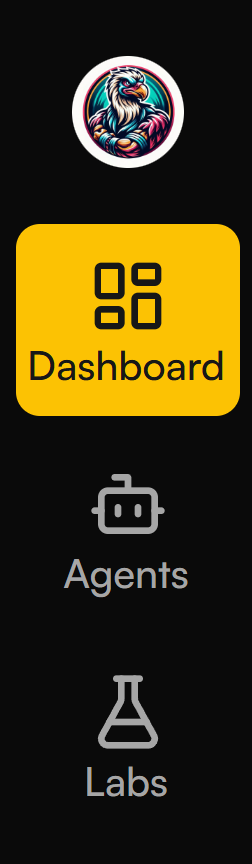
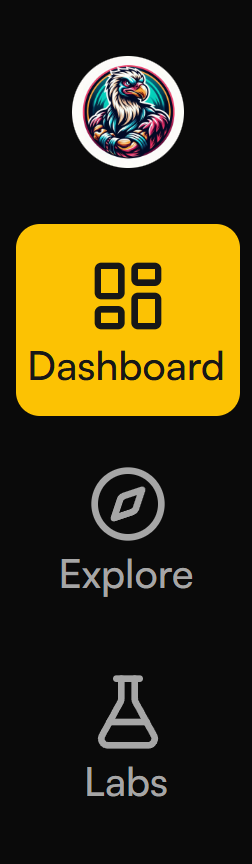
Proposals: the second rail door is Explore
The user approved renaming the second door from Agents to Explore (compass
icon). The rail PRs carry it (#3, #4, #6, #7, #25); the route still opens the
Hub at /hub, and the Explore page is the proposal in explore.html.

- side-rail.html: the lede, rail, phone and Labs sections, the rollout rows and
  the changelog say Explore. The open point about "two things called Agents" is
  marked settled: the door is Explore, the Settings row keeps its name.
- trader-nav.html: the three doors are Dashboard, Explore, Labs. The middle
  door is "learn and try": community strategies and agents with videos, then
  import into Labs. The After picture is the rail close-up with the compass.
- dashboard-home.html: the After picture is retaken on the renamed rail at
  1280 by 1400 at 2x (2560 by 2800) from the rail stack tip 095f382c, with the
  same injected mock body including the Live Agents rows.
- explore.html: the note now says the rename is applied in the rail PRs, the
  route still opens /hub, and the Explore page in the showcase is /explore.
- Pictures replaced: rail, Settings panel (rail-2-settings-menu.png from the
  new rail-3), avatar popup, avatar dialog, phone bar, Labs, trader-nav rail,
  dashboard After. The phone Account and Settings pictures are unchanged.

Kept on purpose: the Settings row called Agents, the Agents tab inside
Explore, the Live Agents card name, and the old Agents home in Before and in
the changelog history. Docs only.

Changed region(s): [[0.2222, 0.5312, 0.7778, 0.7188]]

diff --git a/docs/proposals/side-rail.html b/docs/proposals/side-rail.html
@@ -16,7 +16,7 @@
 
 <h1>A left icon rail instead of the top nav</h1>
 <p class="meta">Status: <strong>in review</strong> &middot; PRs #3, #4, #6, #7 into <code>ui-redesign</code>, plus #25 and #26 as extras &middot; Last updated: 2026-11-28 &middot; Branches reviewed on rn5 against an empty preview Condor</p>
-<p class="lede">Move Condor's navigation from the crowded top bar into a slim left icon rail (Dashboard, Agents, Labs and Settings), keep only the server, Gateway status and the mode switch in the top bar, put the user behind an initials avatar, and add a bottom tab bar on phones. The look stays the same. Only the layout changes.</p>
+<p class="lede">Move Condor's navigation from the crowded top bar into a slim left icon rail (Dashboard, Explore, Labs and Settings), keep only the server, Gateway status and the mode switch in the top bar, put the user behind an initials avatar, and add a bottom tab bar on phones. The look stays the same. Only the layout changes.</p>
 
 <h2 id="why">Why</h2>
 <p>The top bar carries seven page links and six controls in one 48 px strip, and it keeps growing as agents, strategies, routines and DEX tools arrive. On phones the links disappear and nothing replaces them. A left rail gives every surface a stable home and frees the top of the screen for the work.</p>
@@ -36,10 +36,10 @@
 <figure class="phone"><div class="phone-frame"><img src="assets/before-topnav-phone.png" alt="A phone showing the same Condor home: the top bar holds only the controls, with no page links"></div><figcaption>Phone (360 px wide screen, shown at its own size): no navigation links at all. The top bar holds only the controls.</figcaption></figure>
 
 <h2 id="after">After</h2>
-<p>A slim rail, a list panel, then the main area. Rail items: the logo, then Dashboard, Agents and Labs, and at the bottom Settings (the gear) and an initials avatar. The right side of the top bar shows only Local (the server), Gateway status and Switch Mode.</p>
+<p>A slim rail, a list panel, then the main area. Rail items: the logo, then Dashboard, Explore and Labs, and at the bottom Settings (the gear) and an initials avatar. The right side of the top bar shows only Local (the server), Gateway status and Switch Mode.</p>
 
 <h3>The rail (PR #3)</h3>
-<figure class="wide"><img src="assets/rail-1-rail.png" alt="Condor with the left icon rail: Dashboard, Agents, Labs, Settings and the user initials; the page body is blurred. The top bar shows Local, Gateway status and Switch Mode"><figcaption>Labels appear on hover and keyboard focus. Left rail shows: Dashboard, Agents, Labs, Settings, User Initial.</figcaption></figure>
+<figure class="wide"><img src="assets/rail-1-rail.png" alt="Condor with the left icon rail: Dashboard, Explore, Labs, Settings and the user initials; the page body is blurred. The top bar shows Local, Gateway status and Switch Mode"><figcaption>Labels appear on hover and keyboard focus. Left rail shows: Dashboard, Explore, Labs, Settings, User Initial.</figcaption></figure>
 <figure class="wide"><img src="assets/rail-2-settings-menu.png" alt="The rail with the Settings panel open beside it, in three groups separated by dividers: Hummingbot API, Gateway, Keys and Wallets, Servers, Updates; then Agents, LLM Endpoints, Voice and AI, Appearance, Privacy; then Report an Issue; the page body is blurred"><figcaption>The Settings gear opens a small vertical panel beside the rail, titled Settings, with 11 rows in three groups separated by dividers (the groups have no titles). Group 1: Hummingbot API, Gateway, Keys and Wallets, Servers, Updates. Group 2: Agents, LLM Endpoints, Voice &amp; AI, Appearance, Privacy. Group 3: Report an Issue, which opens the existing dialog.</figcaption></figure>
 
 <h3>The avatar menu (PR #4)</h3>
@@ -48,23 +48,23 @@
 <figure class="wide"><img src="assets/avatar-2-account-dialog.png" alt="The Your account dialog over the blurred page: a Name field with Algo Trader and a Dashboard title field with My Condor, and Cancel and Save buttons"><figcaption>Account opens the "Your account" dialog: Name (required) and Dashboard title (optional; blank keeps Condor). Save stays off until something changes.</figcaption></figure>
 
 <h3>Phones (PR #6)</h3>
-<p>Below 768 px the left rail is replaced by a bottom tab bar with four tabs: Dashboard, Agents, Labs and Account (the user's initials). The Account tab opens a sheet with the user name and role, then Account, Settings and Logout. Account opens the same dialog as on the rail. Settings shows the same list as the desktop Settings panel, behind a back arrow, in three groups: Hummingbot API, Gateway, Keys and Wallets, Servers, Updates | Agents, LLM Endpoints, Voice &amp; AI, Appearance, Privacy | Report an Issue. There is no bell. A red dot on the Account tab means the selected server is offline.</p>
+<p>Below 768 px the left rail is replaced by a bottom tab bar with four tabs: Dashboard, Explore, Labs and Account (the user's initials). The Account tab opens a sheet with the user name and role, then Account, Settings and Logout. Account opens the same dialog as on the rail. Settings shows the same list as the desktop Settings panel, behind a back arrow, in three groups: Hummingbot API, Gateway, Keys and Wallets, Servers, Updates | Agents, LLM Endpoints, Voice &amp; AI, Appearance, Privacy | Report an Issue. There is no bell. A red dot on the Account tab means the selected server is offline.</p>
 <div class="phone-row">
-<figure class="phone"><div class="phone-frame x2"><img src="assets/phone-1-tabbar.png" alt="A phone screen with the bottom tab bar: Dashboard, Agents, Labs and Account; the page body is blurred"></div><figcaption>The tab bar: Dashboard, Agents, Labs and Account. The page body is blurred.</figcaption></figure>
+<figure class="phone"><div class="phone-frame x2"><img src="assets/phone-1-tabbar.png" alt="A phone screen with the bottom tab bar: Dashboard, Explore, Labs and Account; the page body is blurred"></div><figcaption>The tab bar: Dashboard, Explore, Labs and Account. The page body is blurred.</figcaption></figure>
 <figure class="phone"><div class="phone-frame x2"><img src="assets/phone-2-account.png" alt="A phone screen with the Account sheet open: Algo Trader, ADMIN, then Account, Settings and Logout"></div><figcaption>Account opens a sheet with the name and role, then Account, Settings and Logout.</figcaption></figure>
 <figure class="phone"><div class="phone-frame x2"><img src="assets/phone-3-settings.png" alt="A phone screen with the Settings list in three groups: Hummingbot API, Gateway, Keys and Wallets, Servers, Updates; Agents, LLM Endpoints, Voice and AI, Appearance, Privacy; Report an Issue; with a back arrow"></div><figcaption>Settings: the same 11 rows in three groups as on the rail, with a back arrow. An open sheet covers the tab bar.</figcaption></figure>
 </div>
 
 <h3>Labs page (PR #7)</h3>
-<figure class="wide"><img src="assets/labs-1-page.png" alt="The Labs page: the Labs door in the rail is lit and the page body is blurred"><figcaption>New <code>/labs</code> page. It will hold four tools: Design, Backtest, Test Run and Diagnose. The page content is a placeholder for now and is blurred in the image. The old <code>/strategies</code> address redirects to <code>/labs</code>.</figcaption></figure>
+<figure class="wide"><img src="assets/labs-1-page.png" alt="The Labs page: the Labs door in the rail is lit and the page body is blurred"><figcaption>New <code>/labs</code> page. It will hold four tools: Design, Backtest, Test Run and Diagnose. The page content is a placeholder for now and is blurred in the image. The old <code>/strategies</code> address redirects to <code>/labs</code>. It is the third door, under Explore.</figcaption></figure>
 
 <h2 id="rollout">Rollout</h2>
 <table>
   <thead><tr><th>PR</th><th>Branch</th><th>Scope</th><th>Review status</th></tr></thead>
   <tbody>
-    <tr><td>#3</td><td><code>ui/side-rail</code></td><td>Left icon rail replaces the top bar (Dashboard, Agents, Labs); Settings gear at the foot opens a panel of 11 rows in three groups; top bar keeps Local, Gateway status, Switch Mode; bell removed</td><td class="s tweak">Works, tweaks 1</td></tr>
+    <tr><td>#3</td><td><code>ui/side-rail</code></td><td>Left icon rail replaces the top bar (Dashboard, Explore, Labs); Settings gear at the foot opens a panel of 11 rows in three groups; top bar keeps Local, Gateway status, Switch Mode; bell removed</td><td class="s tweak">Works, tweaks 1</td></tr>
     <tr><td>#4</td><td><code>ui/account-menu</code></td><td>Avatar menu: the user name with role, Account (edits the Name and the Dashboard title) and Logout</td><td class="s ok">Built, works</td></tr>
-    <tr><td>#6</td><td><code>ui/mobile-nav</code></td><td>Bottom tab bar on phone widths (Dashboard, Agents, Labs, Account); the Account sheet holds Account, Settings and Logout; Settings lists the same three groups as the rail; no bell</td><td class="s tweak">Works, tweaks 2 and 3</td></tr>
+    <tr><td>#6</td><td><code>ui/mobile-nav</code></td><td>Bottom tab bar on phone widths (Dashboard, Explore, Labs, Account); the Account sheet holds Account, Settings and Logout; Settings lists the same three groups as the rail; no bell</td><td class="s tweak">Works, tweaks 2 and 3</td></tr>
     <tr><td>#7</td><td><code>ui/strategies-page</code></td><td><code>/labs</code> page (placeholder body); <code>/strategies</code> redirects to it</td><td class="s todo">Placeholder only</td></tr>
     <tr><td>#25</td><td><code>ui/panel-rail-v2</code></td><td>Extra: on phones the chat workspace's right-hand panel rail becomes a drawer opened by a Panels toggle (base: <code>ui/strategies-page</code>, merge after #7)</td><td class="s ok">Built, tested; phone only</td></tr>
     <tr><td>#26</td><td><code>ui/test-no-real-ports</code></td><td>Extra: tests refuse to reach the real Condor ports 8088 and 8000 (tests only; base <code>ui-redesign</code>, independent of the rail stack)</td><td class="s ok">Built, tested</td></tr>
@@ -81,7 +81,7 @@
   <li><strong>Settings entries (#3).</strong> All 11 rows in the Settings panel open a real Settings tab, except Report an Issue, which opens the existing dialog. The Notifications and Admin tabs are not listed in the panel; they are reachable only from inside the Settings page.</li>
   <li><strong>Avatar popup (#4).</strong> The popup covers the Settings gear while it is open.</li>
   <li><strong>Account dialog (#4).</strong> It is new and edits only the Name and the Dashboard title. The hint under the title ("Optional. Leave blank to keep Condor.") differs from the onboarding step on purpose, because the title no longer shows in the top bar. The phone Account sheet has the same Account row.</li>
-  <li><strong>Two things called Agents (#3).</strong> Settings now has 11 rows, and one of them is called Agents (agent configuration). It could be confused with the Agents door in the rail. Rename one of them?</li>
+  <li><strong>Two things called Agents (#3), settled.</strong> Settings keeps a row called Agents (agent configuration). The rail door that could be confused with it is Explore now, so the collision is gone; the Settings row keeps its name.</li>
   <li><strong>Labs content (#7).</strong> The page is a placeholder. Design, Backtest, Test Run and Diagnose still have to be built.</li>
   <li><strong>Lost entry points (#3, #4).</strong> The notification bell, the display currency and Run setup again have no place in the new layout yet. Decision: fine for now, a place is to be found later.</li>
   <li><strong>Next proposal.</strong> The Dashboard page (stats) is the next proposal to build.</li>
@@ -96,13 +96,14 @@
 <table>
   <thead><tr><th>Date</th><th>Change</th><th>Reason / source</th><th>PR</th></tr></thead>
   <tbody>
-    <tr><td>2026-11-28</td><td>The Labs picture is retaken on the new rail (Dashboard, Agents, Labs lit, Settings, avatar)</td><td>User review; PR #7 at <code>0b81a167</code></td><td>#7</td></tr>
-    <tr><td>2026-11-28</td><td>Avatar and phone sections finished: the avatar popup now holds the name with role, Account and Logout, with a second picture of the "Your account" dialog; the phone bar has four tabs, the Account sheet holds Account, Settings and Logout, and Settings shows the three groups; the phone pictures are retaken (three, in order: tab bar, Account sheet, Settings list); open points added for the Account dialog and the two Agents entries</td><td>User review; PRs #4 at <code>5728adcf</code> and #6 at <code>d617fd5e</code></td><td>#4, #6</td></tr>
-    <tr><td>2026-11-28</td><td>Rail simplified: Dashboard, Agents, Labs, then Settings and the avatar; the rail pictures are retaken to match; the second rail picture and its text are removed; the Settings panel now has 11 rows in three groups (Hummingbot API, Gateway, Keys and Wallets, Servers, Updates | Agents, LLM Endpoints, Voice &amp; AI, Appearance, Privacy | Report an Issue). The avatar and phone sections were finished in the next row</td><td>User review; PR #3 at <code>b5a1bd0d</code></td><td>#3</td></tr>
+    <tr><td>2026-11-28</td><td>The second door is <strong>Explore</strong> with a compass icon, in the rail, the phone bar, every picture on this page and its text; the route still opens the Hub at <code>/hub</code>. The Settings row called Agents keeps its name, and so does the Agents tab on the Explore page. Pictures replaced: rail, Settings panel, avatar popup, avatar dialog, phone bar, Labs</td><td>User approved the rename. Rail PRs #3 at <code>6c02cdd3</code>, #4 at <code>668265c4</code>, #6 at <code>74d8cdf4</code>, #7 at <code>77bf1e5c</code>, #25 at <code>095f382c</code></td><td>#3, #4, #6, #7, #25</td></tr>
+    <tr><td>2026-11-28</td><td>The Labs picture is retaken on the new rail (Dashboard, Explore, Labs lit, Settings, avatar)</td><td>User review; PR #7 at <code>0b81a167</code></td><td>#7</td></tr>
+    <tr><td>2026-11-28</td><td>Avatar and phone sections finished: the avatar popup now holds the name with role, Account and Logout, with a second picture of the "Your account" dialog; the phone bar has four tabs, the Account sheet holds Account, Settings and Logout, and Settings shows the three groups; the phone pictures are retaken (three, in order: tab bar, Account sheet, Settings list); open points added for the Account dialog and the two entries then both called Agents</td><td>User review; PRs #4 at <code>5728adcf</code> and #6 at <code>d617fd5e</code></td><td>#4, #6</td></tr>
+    <tr><td>2026-11-28</td><td>Rail simplified: Dashboard, Explore, Labs, then Settings and the avatar; the rail pictures are retaken to match; the second rail picture and its text are removed; the Settings panel now has 11 rows in three groups (Hummingbot API, Gateway, Keys and Wallets, Servers, Updates | Agents, LLM Endpoints, Voice &amp; AI, Appearance, Privacy | Report an Issue). The avatar and phone sections were finished in the next row</td><td>User review; PR #3 at <code>b5a1bd0d</code></td><td>#3</td></tr>
     <tr><td>2026-11-27</td><td>Labs now holds four tools: Design, Backtest, Test Run and Diagnose (the route stays <code>/labs</code>); no Settings entry is removed; the lit-state quirk is fixed in #3 (while the Settings panel or the avatar popup is open, only its opener is lit, Dashboard is not); PR #25 (phone drawer for the chat panel rail) and PR #26 (tests refuse real ports) added to the rollout as extras</td><td>User answers; fix in PR #3 (<code>4ea4af86</code>)</td><td>#3, #7, #25, #26</td></tr>
-    <tr><td>2026-11-27</td><td>Rail revised again: Settings is a separate gear item with its own panel (Agents, LLM Endpoints, Voice &amp; AI, Appearance, Privacy); the phone bar has four tabs (Dashboard, Agents, Labs, Account); all desktop images retaken at 1280 by 700 at 2x and shown at one width; Dashboard page noted as the next proposal</td><td>User decisions on the open questions</td><td>#3, #6</td></tr>
+    <tr><td>2026-11-27</td><td>Rail revised again: Settings is a separate gear item with its own panel (Agents, LLM Endpoints, Voice &amp; AI, Appearance, Privacy); the phone bar has four tabs (Dashboard, Explore, Labs, Account); all desktop images retaken at 1280 by 700 at 2x and shown at one width; Dashboard page noted as the next proposal</td><td>User decisions on the open questions</td><td>#3, #6</td></tr>
     <tr><td>2026-11-27</td><td>Final images for the rail, avatar menu, phone tab bar and Labs page, all retaken at 2x in the dark theme with the page body blurred and only the navigation sharp; phones now shown inside the phone frame, one per row; Phones section rewritten for the new tab bar; open points added for the Account tab, Labs before #7 and the Dashboard</td><td>User review of the proposal; PRs #3, #4, #6 and #7 merged down in order</td><td>#3, #4, #6, #7</td></tr>
-    <tr><td>2026-11-27</td><td>Rail proposal revised after review: rail items are Dashboard, Agents and Labs; top bar right side is Local, Gateway status and Switch Mode; bell removed; avatar popup reduced to the user name with role, and Logout; the Strategies page became the Labs page; the Chat list search and filter section (PR #8) was dropped by decision. Page bodies are blurred in the new images so the navigation stands out</td><td>User review of the proposal</td><td>#3, #4, #6, #7</td></tr>
+    <tr><td>2026-11-27</td><td>Rail proposal revised after review: rail items are Dashboard, Explore and Labs; top bar right side is Local, Gateway status and Switch Mode; bell removed; avatar popup reduced to the user name with role, and Logout; the Strategies page became the Labs page; the Chat list search and filter section (PR #8) was dropped by decision. Page bodies are blurred in the new images so the navigation stands out</td><td>User review of the proposal</td><td>#3, #4, #6, #7</td></tr>
     <tr><td>2026-11-27</td><td>"Before" images retaken from the old top-nav build, one per row: the full desktop screen at 1280 px, and the phone screen inside a CSS phone frame (same treatment as the onboarding page). The old phone image showed the keys overlay, not the top bar. "After" images unchanged</td><td>User review: larger Before images so the text is readable</td><td>#13</td></tr>
     <tr><td>2026-11-26</td><td>Page rebuilt as editable HTML in <code>docs/proposals/</code>; screenshots retaken from the PR branches</td><td>Previous version was a generated page that could not be edited by every agent</td><td>docs</td></tr>
     <tr><td>2026-11-26</td><td>Review notes added: hover-only labels, panel rail on phones</td><td>Review of PRs #3, #4, #6, #7 built on rn5</td><td>&mdash;</td></tr>

diff --git a/docs/proposals/trader-nav.html b/docs/proposals/trader-nav.html
@@ -16,7 +16,7 @@
 
 <h1>Simplify Navigation to Essentials</h1>
 <p class="meta">Status: <strong>in review</strong> &middot; No PR of its own: the rail PRs #3, #4, #6 and #7 into <code>ui-redesign</code> already build it (see <a href="side-rail.html">the side-rail proposal</a>) &middot; Last updated: 2026-11-28</p>
-<p class="lede">Cut the main navigation from seven page links to three doors, each named after something a trader does: <strong>Dashboard</strong> to check, <strong>Agents</strong> to learn, <strong>Labs</strong> to build. The look stays the same. What changes is what the user sees first and what each door is for.</p>
+<p class="lede">Cut the main navigation from seven page links to three doors, each named after something a trader does: <strong>Dashboard</strong> to check, <strong>Explore</strong> to learn and try, <strong>Labs</strong> to build. The look stays the same. What changes is what the user sees first and what each door is for.</p>
 
 <h2 id="why">Why</h2>
 <p>Today's navigation items are not coherent or intuitive about what to do first. First-time users end up clicking everywhere to find out what each button is for.</p>
@@ -31,13 +31,13 @@
   <thead><tr><th>Door</th><th>The trader's job</th><th>What it holds</th><th>Today</th></tr></thead>
   <tbody>
     <tr><td><strong>Dashboard</strong></td><td>Check</td><td>Portfolio, Bots and Markets in one place. The production view: what is running and how it is doing.</td><td class="s tweak">Opens the chat home. The stats page is the next proposal.</td></tr>
-    <tr><td><strong>Agents</strong></td><td>Learn</td><td>Find and learn about community agents, like a marketplace. An agent that looks useful is imported into Labs to test, not straight into production.</td><td class="s tweak">Opens the existing Agent Hub (<code>/hub</code>). Import into Labs is not built.</td></tr>
+    <tr><td><strong>Explore</strong></td><td>Learn and try</td><td>Community strategies and agents, each with a video: what it does and whether it is worth importing. One that looks useful is imported into Labs to test, not straight into production.</td><td class="s tweak">Opens the existing Agent Hub at <code>/hub</code>; the Explore page itself is the separate <a href="explore.html">Explore proposal</a>. Import into Labs is not built.</td></tr>
     <tr><td><strong>Labs</strong></td><td>Build</td><td>Design agents, Backtest, Test Run and Diagnose. The development view: where agents are made and proven before they go live.</td><td class="s todo">Placeholder page. The four tools still have to be built.</td></tr>
   </tbody>
 </table>
 <h2 id="after">After</h2>
 <div class="rail-demo">
-  <figure><img src="assets/trader-nav-rail.png" alt="Close-up of the left rail in the dark theme: the Condor logo, then Dashboard (lit), Agents and Labs, each with its name under the icon"></figure>
+  <figure><img src="assets/trader-nav-rail.png" alt="Close-up of the left rail in the dark theme: the Condor logo, then Dashboard (lit), Explore with a compass and Labs, each with its name under the icon"></figure>
 </div>
 
 <h2 id="rollout">Rollout</h2>
@@ -45,22 +45,23 @@
 <table>
   <thead><tr><th>PR</th><th>What it gives this proposal</th><th>Status</th><th>Still missing</th></tr></thead>
   <tbody>
-    <tr><td>#3</td><td>The rail: Dashboard, Agents, Labs, Settings; the top bar reduced to Local, Gateway status and Switch Mode</td><td class="s ok">Built, tested</td><td>Dashboard still opens the chat home</td></tr>
+    <tr><td>#3</td><td>The rail: Dashboard, Explore, Labs, Settings; the top bar reduced to Local, Gateway status and Switch Mode</td><td class="s ok">Built, tested</td><td>Dashboard still opens the chat home</td></tr>
     <tr><td>#4</td><td>The account menu: name, role, Logout</td><td class="s ok">Built, tested</td><td>&mdash;</td></tr>
-    <tr><td>#6</td><td>The same doors as a bottom tab bar on phones (Dashboard, Agents, Labs, Account)</td><td class="s ok">Built, tested</td><td>&mdash;</td></tr>
-    <tr><td>#7</td><td>The Labs door and its page</td><td class="s todo">Placeholder only</td><td>Design, Backtest, Test Run, Diagnose; import from Agents</td></tr>
+    <tr><td>#6</td><td>The same doors as a bottom tab bar on phones (Dashboard, Explore, Labs, Account)</td><td class="s ok">Built, tested</td><td>&mdash;</td></tr>
+    <tr><td>#7</td><td>The Labs door and its page</td><td class="s todo">Placeholder only</td><td>Design, Backtest, Test Run, Diagnose; import from Explore</td></tr>
   </tbody>
 </table>
-<p>The Agents door opens the Agent Hub that already exists. Making it a real marketplace, and the import into Labs, are later work.</p>
+<p>The Explore door opens the Agent Hub that already exists, at <code>/hub</code>. The Explore page (tabs, videos, the Source filter) is a separate proposal, and the import into Labs is later work.</p>
 
 <h2 id="decision">Decision requested</h2>
-<div class="callout"><p>Approve Dashboard, Agents and Labs as the three main navigation items. No new PR is needed: it is built by the rail PRs #3, #4, #6 and #7.</p></div>
+<div class="callout"><p>Approve Dashboard, Explore and Labs as the three main navigation items. No new PR is needed: it is built by the rail PRs #3, #4, #6 and #7.</p></div>
 
 <h2 id="log">Refinement log</h2>
 <p>Newest first. Add a row for every change that comes out of review.</p>
 <table>
   <thead><tr><th>Date</th><th>Change</th><th>Reason / source</th><th>PR</th></tr></thead>
   <tbody>
+    <tr><td>2026-11-28</td><td>The middle door is <strong>Explore</strong> with a compass icon, not Agents: <strong>Dashboard to check, Explore to learn and try, Labs to build</strong>. The route still opens the Hub at <code>/hub</code>; the Explore page is a separate proposal. The rail picture is retaken with the compass; the Settings row called Agents is unchanged</td><td>User approved the rename; rail PRs #3 to #25 are pushed with it</td><td>#3, #4, #6, #7, #25</td></tr>
     <tr><td>2026-11-28</td><td>The After close-up is retaken and now ends at Labs; the text that listed a fourth rail item is removed from the picture description, the rollout and the table</td><td>User review; PR #3 at <code>b5a1bd0d</code></td><td>#13</td></tr>
     <tr><td>2026-11-27</td><td>Revised after review: the page is renamed "Simplify Navigation to Essentials"; the Why is now two short paragraphs; the page is trimmed to Why, Before, Proposal, After, Rollout and Decision; Before and After show only their images; the part of the Proposal about what moves out of the main three is removed</td><td>User review of the proposal</td><td>#13</td></tr>
     <tr><td>2026-11-27</td><td>Linked to the Dashboard proposal page (<code>dashboard-home.html</code>) from a "Next proposal" line</td><td>The Dashboard proposal was written</td><td>#13</td></tr>

diff --git a/docs/proposals/explore.html b/docs/proposals/explore.html
@@ -50,7 +50,7 @@
 <ol>
   <li><strong>Content is dummy where it is marked sample.</strong> The 14 hackathon agents are real: names, builders, venues, race scores and descriptions come from the Botcamp <a href="https://www.botcamp.xyz/hackathons/agent-builders-cup-1">Agent Builders Cup</a> page and one page per agent. Every video is a placeholder marked "to be recorded", because the Agent Hub has no clips today. The feed sources for livestream, X and Discord are still to be decided; only the three Follow links are real.</li>
   <li><strong>The layout and design are not final.</strong> They will be redesigned by Sofi.</li>
-  <li><strong>The rename is shown in the showcase only.</strong> This page and the showcase say Explore; the rail PRs (#3, #6, #25) and the other proposal pages still say Agents until the rename is approved. Renaming them is one round of work, not something to do piecemeal.</li>
+  <li><strong>The rename is applied in the rail PRs.</strong> The second door is Explore with a compass icon in #3, #4, #6, #7 and #25, and it still opens the Hub at <code>/hub</code> until this page lands. In the showcase the Explore page is at <code>/explore</code> and <code>/hub</code> redirects to it; this proposal is that page. The Settings row called Agents keeps its name, and so does the Agents tab inside Explore.</li>
 </ol>
 
 <h2 id="later">Functionality to build later (after the UI is approved)</h2>
@@ -87,6 +87,7 @@
 <table>
   <thead><tr><th>Date</th><th>Change</th><th>Reason / source</th><th>PR</th></tr></thead>
   <tbody>
+    <tr><td>2026-11-28</td><td>The note about the rail PRs is updated: the rename to Explore is applied in #3, #4, #6, #7 and #25, the route still opens <code>/hub</code>, and the Explore page in the showcase is at <code>/explore</code> with <code>/hub</code> redirecting to it; the Settings Agents row and the Agents tab keep their names. Pictures unchanged</td><td>User approved the rename and the rail PRs are pushed with it</td><td>#13</td></tr>
     <tr><td>2026-11-28</td><td>Page written. Explore renames the second door and splits into four tabs. Two mock layouts were made (top tabs, and a persistent second vertical layer) and top tabs was chosen: the second layer would take 180 to 220 px from the video cards and would need a drawer on a phone, and it only earns its place at six or more sections. Every entry is video first with one action; the Source filter carries the 14 hackathon agents. Content: 14 real agents from the Agent Builders Cup, 10 strategies verified on the Hummingbot docs, 3 real channel links, everything else sample, all videos to be recorded</td><td>User: rename the second door to Explore; keep strategies and agents as separate lists with their own definition; video first; dummy content is fine. Layout decided with the two layout mocks</td><td>#13</td></tr>
   </tbody>
 </table>

diff --git a/docs/proposals/dashboard-home.html b/docs/proposals/dashboard-home.html
@@ -59,8 +59,9 @@
 <table>
   <thead><tr><th>Date</th><th>Change</th><th>Reason / source</th><th>PR</th></tr></thead>
   <tbody>
+    <tr><td>2026-11-28</td><td>The After picture is retaken on the renamed rail (Dashboard, Explore with a compass, Labs, then Settings and the avatar); the page content is unchanged, including the Live Agents rows</td><td>The second door is Explore (user approved the rename); the picture is taken on the rail stack tip <code>095f382c</code></td><td>#13</td></tr>
     <tr><td>2026-11-28</td><td>The Live Agents cards gain two rows after Volume: <strong>Agent Started</strong> (<code>25-Nov-26 at 12:55 pm</code>) and <strong>Total Runtime</strong> (<code>3D 2H 30Mins</code>), with a different value for each card (GateForum <code>26-Nov-26 at 9:40 am</code> / <code>2D 5H 45Mins</code>; JEV <code>28-Nov-26 at 12:55 pm</code> / <code>2H 30Mins</code>); the mock's sample "now" is 28-Nov-26 at 3:25 PM, which the runtimes add up to; the picture is retaken on the current rail build at 1280 by 1400 at 2x (2560 by 2800)</td><td>User request. Sample data only: Condor does not report an agent's start time or runtime yet</td><td>#13</td></tr>
-    <tr><td>2026-11-28</td><td>The After picture is retaken on the updated left rail (Dashboard, Agents, Labs, then Settings and the avatar); the page content is the same</td><td>User review; PR #3 at <code>b5a1bd0d</code></td><td>#13</td></tr>
+    <tr><td>2026-11-28</td><td>The After picture is retaken on the updated left rail (Dashboard, Explore, Labs, then Settings and the avatar); the page content is the same</td><td>User review; PR #3 at <code>b5a1bd0d</code></td><td>#13</td></tr>
     <tr><td>2026-11-27</td><td>Revised after review: the Why is now three short paragraphs; the page is trimmed to Why, Before, After, Notes, Rollout and Decision; the Before keeps only what is missing for a trader and has no caption; the After text now explains what the page is for instead of describing the picture, and its note is shortened; the table under the picture is removed; the picture gains a "Live Agents" row of three cards (Stable Churn, GateForum, JEV) with sample data, and is retaken at 1280 by 1300 at 2x (2560 by 2600); the mock source is updated to match</td><td>User review of the proposal</td><td>#13</td></tr>
     <tr><td>2026-11-27</td><td>First version: reasons for the change, the current Agents home as "Before", a mock Dashboard with sample data on the real rail and top bar as "After" (the mock is kept in <code>assets/dashboard-mock.html</code>), notes, and a statement that nothing is built</td><td>User request for a proposal on the Dashboard as the default home page. The reference pictures the user mentioned did not arrive, so the layout followed the written list</td><td>#13</td></tr>
   </tbody>
